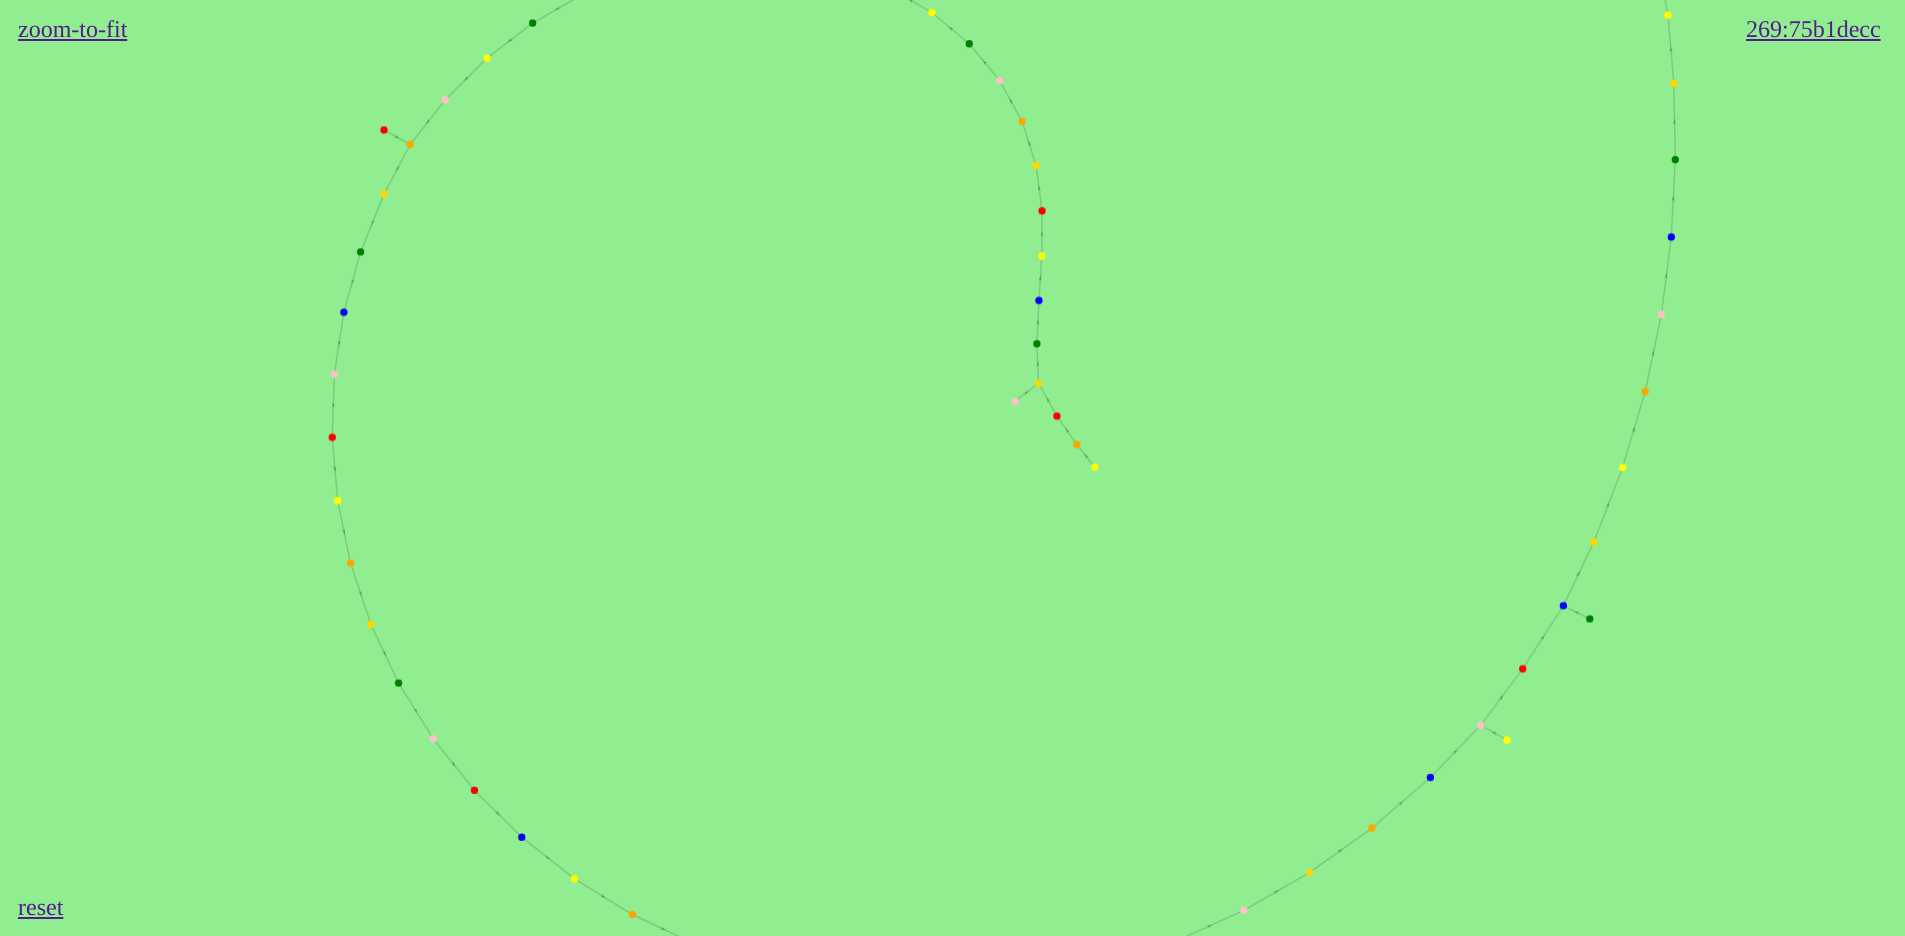
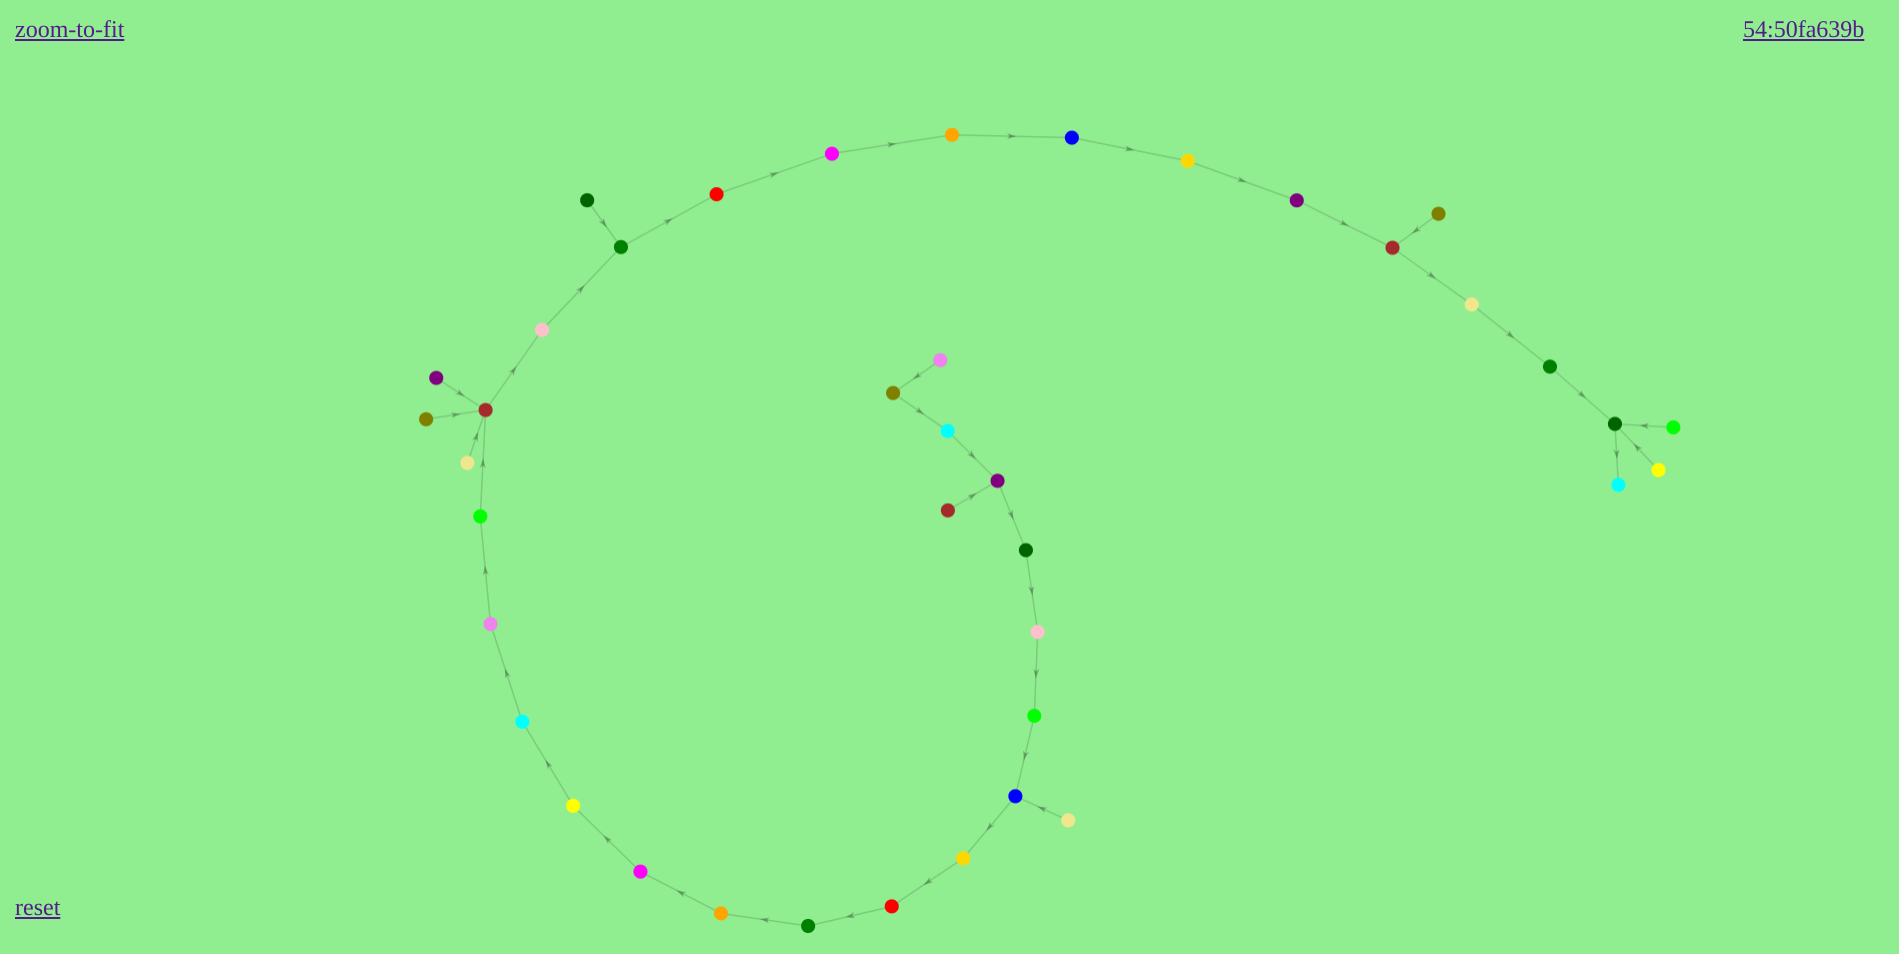
upd screenshot

diff --git a/README.md b/README.md
@@ -1,6 +1,8 @@
 # forcecons
 distributed protocols r&amp;d framework
 
+
+visual debugger for consensus protocols r&d
 ![forcecons blockchain graph](forcecons-blockchain-graph.png)
 
 
